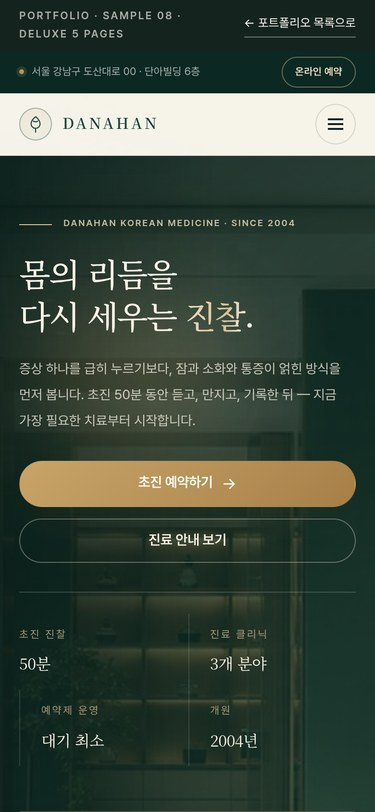
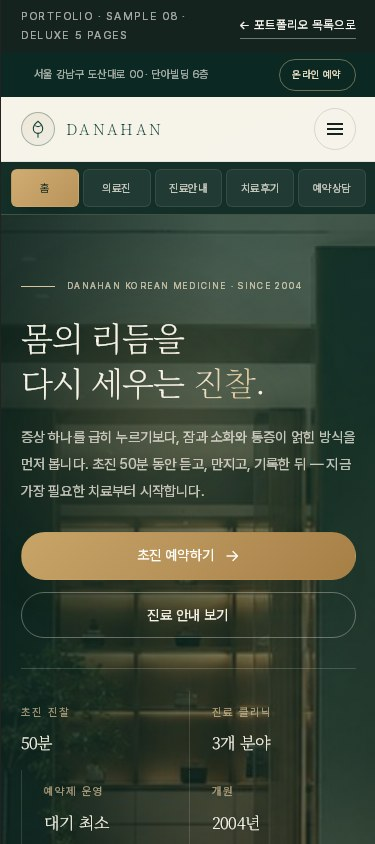
Refresh 단아한 한의원 mobile preview (5-cell nav strip) and cache-bust

diff --git a/index.html b/index.html
@@ -448,11 +448,11 @@
             <span class="work-badge">5P · 디럭스 (27만)</span>
             <div class="device-frame">
               <div class="device-label">모바일 메인</div>
-              <img src="assets/img/previews/clinic-mo.jpg" alt="단아한 한의원 모바일 메인 화면" loading="lazy">
+              <img src="assets/img/previews/clinic-mo.jpg?v=2" alt="단아한 한의원 모바일 메인 화면" loading="lazy">
             </div>
             <div class="device-frame pc">
               <div class="device-label">PC 메인</div>
-              <img src="assets/img/previews/clinic-pc.jpg" alt="단아한 한의원 PC 메인 화면" loading="lazy">
+              <img src="assets/img/previews/clinic-pc.jpg?v=2" alt="단아한 한의원 PC 메인 화면" loading="lazy">
             </div>
           </div>
           <div class="work-body">
